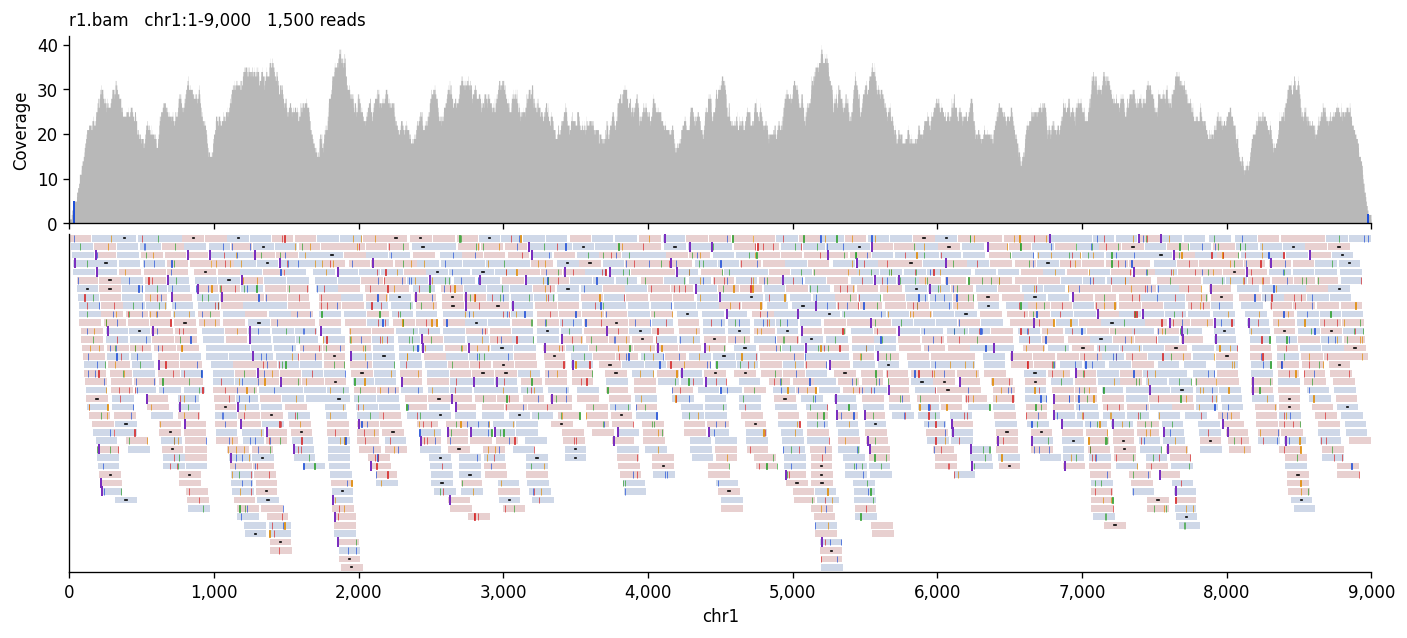
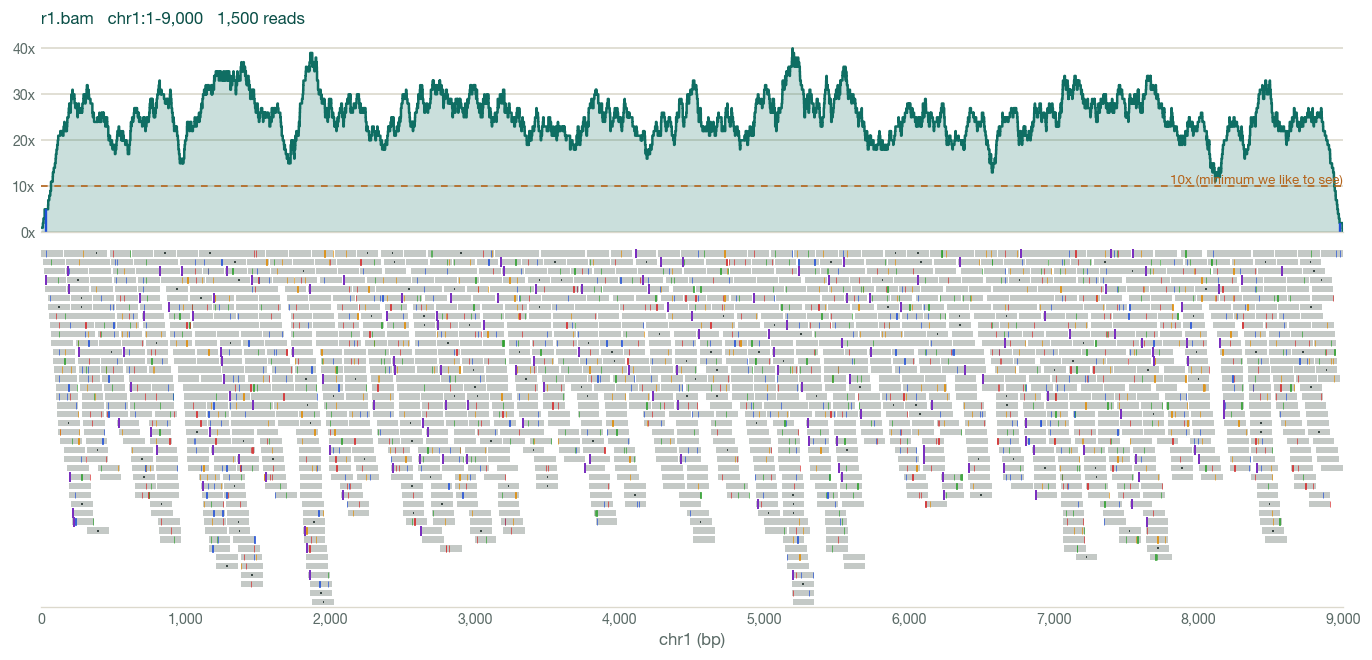
Match report styling; remove IGV references from code and docs

diff --git a/bam_snapshots.py b/bam_snapshots.py
@@ -2,7 +2,7 @@
 """
 bam_snapshots.py - headless, cross-platform BAM snapshot generator.
 
-Replaces the IGV-based shell/PowerShell scripts. Same folder layout:
+Expected folder layout:
 
     main_dir/
         sample1/
@@ -35,6 +35,11 @@ except ImportError:
     except ImportError:
         sys.exit("Need pysam or bamnostic:  pip install bamnostic")
 
+# Palette matches the PSBA plasmid report.
+INK, SUB, LINE = "#1c2b28", "#5b6b67", "#dcd9cd"
+ACCENT, ACCENT2, WARN = "#0a4f47", "#0f6e63", "#b5651d"
+READ_GREY = "#c4c9c6"
+MIN_DEPTH = 10
 BASE_COLOURS = {"A": "#2ca02c", "C": "#1f4fd8", "G": "#e08a00", "T": "#d62728", "N": "#888888"}
 M, I, D, N, S, H, P, EQ, X = range(9)  # BAM CIGAR op codes
 REF_CONSUMING = {M, D, N, EQ, X}
@@ -125,7 +130,9 @@ def render(bam_path, out_png, contig, ref, region, args):
     import matplotlib
     matplotlib.use("Agg")
     import matplotlib.pyplot as plt
-    from matplotlib.collections import PolyCollection
+    import matplotlib.font_manager
+    import matplotlib.ticker
+    from matplotlib.collections import LineCollection, PolyCollection
 
     start, end = region
     cov, counts, reads = analyse_bam(bam_path, contig, ref, start, end)
@@ -136,54 +143,66 @@ def render(bam_path, out_png, contig, ref, region, args):
     placed, n_rows = pack_rows(reads, args.max_rows)
     n_rows = max(n_rows, 1)
 
-    fig_h = 2.2 + n_rows * 0.09
+    plt.rcParams.update({
+        "font.family": [f for f in ("IBM Plex Sans", "Inter", "Segoe UI", "Helvetica Neue")
+                        if f in {x.name for x in matplotlib.font_manager.fontManager.ttflist}]
+                       or ["DejaVu Sans"],
+        "text.color": SUB, "axes.labelcolor": SUB,
+        "xtick.color": SUB, "ytick.color": SUB, "axes.edgecolor": LINE,
+    })
     fig, (axc, axr) = plt.subplots(
-        2, 1, figsize=(args.width, fig_h), sharex=True,
-        gridspec_kw={"height_ratios": [2.0, max(n_rows * 0.09, 0.5)], "hspace": 0.04})
+        2, 1, figsize=(args.width, 2.6 + n_rows * 0.09), sharex=True, facecolor="white",
+        gridspec_kw={"height_ratios": [2.0, max(n_rows * 0.09, 0.5)], "hspace": 0.06})
 
+    # Coverage: translucent teal area + solid line, light grid, dashed minimum-depth line.
     xs = np.arange(len(ref))
-    axc.fill_between(xs, cov, step="mid", color="#b8b8b8", linewidth=0)
+    axc.fill_between(xs, cov, step="mid", color=ACCENT2, alpha=0.22, linewidth=0)
+    axc.step(xs, cov, where="mid", color=ACCENT2, linewidth=1.5)
     total = np.maximum(cov, 1)
     for base, colour in BASE_COLOURS.items():
         if base == "N":
             continue
-        frac = counts[base] / total
-        mism = (frac >= 0.2) & (ref != base.encode()) & (cov > 0)
+        mism = (counts[base] / total >= 0.2) & (ref != base.encode()) & (cov > 0)
         if mism.any():
-            axc.vlines(xs[mism], 0, cov[mism], colors=colour, linewidth=1.2)
+            axc.vlines(xs[mism], 0, cov[mism], colors=colour, linewidth=1.4)
+    ymax = max(int(cov[start:end].max()) if end > start else 1, MIN_DEPTH * 2) * 1.08
     axc.set_xlim(start, end)
-    axc.set_ylim(0, max(int(cov[start:end].max()) if end > start else 1, 1) * 1.05)
-    axc.set_ylabel("Coverage")
-    axc.set_title(f"{Path(bam_path).name}   {contig}:{start + 1:,}-{end:,}   "
-                  f"{n_total:,} reads" + (f" ({len(placed):,} shown)" if len(placed) < n_total else ""),
-                  loc="left", fontsize=10)
+    axc.set_ylim(0, ymax)
+    axc.grid(axis="y", color=LINE, linewidth=1)
+    axc.set_axisbelow(True)
+    axc.axhline(MIN_DEPTH, color=WARN, linestyle=(0, (4, 4)), linewidth=1)
+    axc.text(end, MIN_DEPTH, f"{MIN_DEPTH}x (minimum we like to see)", color=WARN,
+             ha="right", va="bottom", fontsize=8)
+    axc.yaxis.set_major_formatter(matplotlib.ticker.FuncFormatter(lambda v, _: f"{int(v)}x"))
+    axc.set_title(f"{Path(bam_path).name}   {contig}:{start + 1:,}-{end:,}   {n_total:,} reads"
+                  + (f" ({len(placed):,} shown)" if len(placed) < n_total else ""),
+                  loc="left", fontsize=10, color=ACCENT, fontweight="semibold")
 
-    fwd, rev, ticks, tcol, insx, dels = [], [], [], [], [], []
-    for row, (s, e, is_rev, mism, ins, dl) in placed:
-        y = row
-        poly = [(s, y + .1), (e, y + .1), (e, y + .9), (s, y + .9)]
-        (rev if is_rev else fwd).append(poly)
+    # Reads: grey bars; coloured marks are differences from the reference.
+    bars, ticks, tcol, dels, insx = [], [], [], [], []
+    for row, (s, e, _rev, mism, ins, dl) in placed:
+        bars.append([(s, row + .15), (e, row + .15), (e, row + .85), (s, row + .85)])
         for p, b in mism:
-            ticks.append([(p, y + .1), (p + 1, y + .1), (p + 1, y + .9), (p, y + .9)])
+            ticks.append([(p, row + .15), (p + 1, row + .15), (p + 1, row + .85), (p, row + .85)])
             tcol.append(BASE_COLOURS.get(b, "#888888"))
-        insx.extend((p, y) for p in ins)
-        dels.extend((a, b, y) for a, b in dl)
-    axr.add_collection(PolyCollection(fwd, facecolor="#cfd8e8", edgecolor="none"))
-    axr.add_collection(PolyCollection(rev, facecolor="#e8d0d0", edgecolor="none"))
-    for a, b, y in dels:  # deletion = black line through the read
-        axr.plot([a, b], [y + .5, y + .5], color="black", linewidth=1)
+        insx.extend((p, row + .5) for p in ins)
+        dels.extend(((a, row + .5), (b, row + .5)) for a, b in dl)
+    axr.add_collection(PolyCollection(bars, facecolor=READ_GREY, edgecolor="none"))
+    if dels:
+        axr.add_collection(LineCollection(dels, colors=INK, linewidths=1))
     if ticks:
         axr.add_collection(PolyCollection(ticks, facecolor=tcol, edgecolor=tcol, linewidth=0.4))
     if insx:
-        axr.scatter(*zip(*[(p, y + .5) for p, y in insx]), marker="|", s=40, color="#7a2fbf", linewidths=1.2)
+        axr.scatter(*zip(*insx), marker="|", s=40, color="#7a2fbf", linewidths=1.2)
     axr.set_ylim(n_rows, 0)
     axr.set_yticks([])
-    axr.set_xlabel(contig)
+    axr.set_xlabel(f"{contig} (bp)")
     axr.xaxis.set_major_formatter(matplotlib.ticker.FuncFormatter(lambda v, _: f"{int(v):,}"))
     for ax in (axc, axr):
-        for sp in ("top", "right"):
+        for sp in ("top", "right", "left"):
             ax.spines[sp].set_visible(False)
-    fig.savefig(out_png, dpi=args.dpi, bbox_inches="tight")
+        ax.tick_params(length=0, labelsize=8.5)
+    fig.savefig(out_png, dpi=args.dpi, bbox_inches="tight", facecolor="white")
     plt.close(fig)
 
 

diff --git a/README.md b/README.md
@@ -1,14 +1,14 @@
 # BAM Snapshot
 
-Headless, cross-platform batch snapshots of BAM alignments. No IGV, no Java,
-no display needed — just Python and matplotlib. Runs the same on Windows,
-Mac and Linux.
+Headless, cross-platform batch snapshots of BAM alignments. No display or
+Java needed — just Python and matplotlib. Runs the same on Windows, Mac and
+Linux.
 
 ![example](docs/example.png)
 
-Each PNG shows a coverage track (bases differing from the reference in ≥20% of
-reads are coloured) above a packed read pileup: forward reads blue-grey,
-reverse reads pink, mismatches coloured by base, deletions as black bars,
+Each PNG shows a coverage track with a dashed 10x minimum-depth line (bases differing from the reference in ≥20% of
+reads are coloured) above a packed read pileup: reads as grey bars,
+mismatches coloured by base, deletions as black bars,
 insertions as purple ticks.
 
 ## Layout
